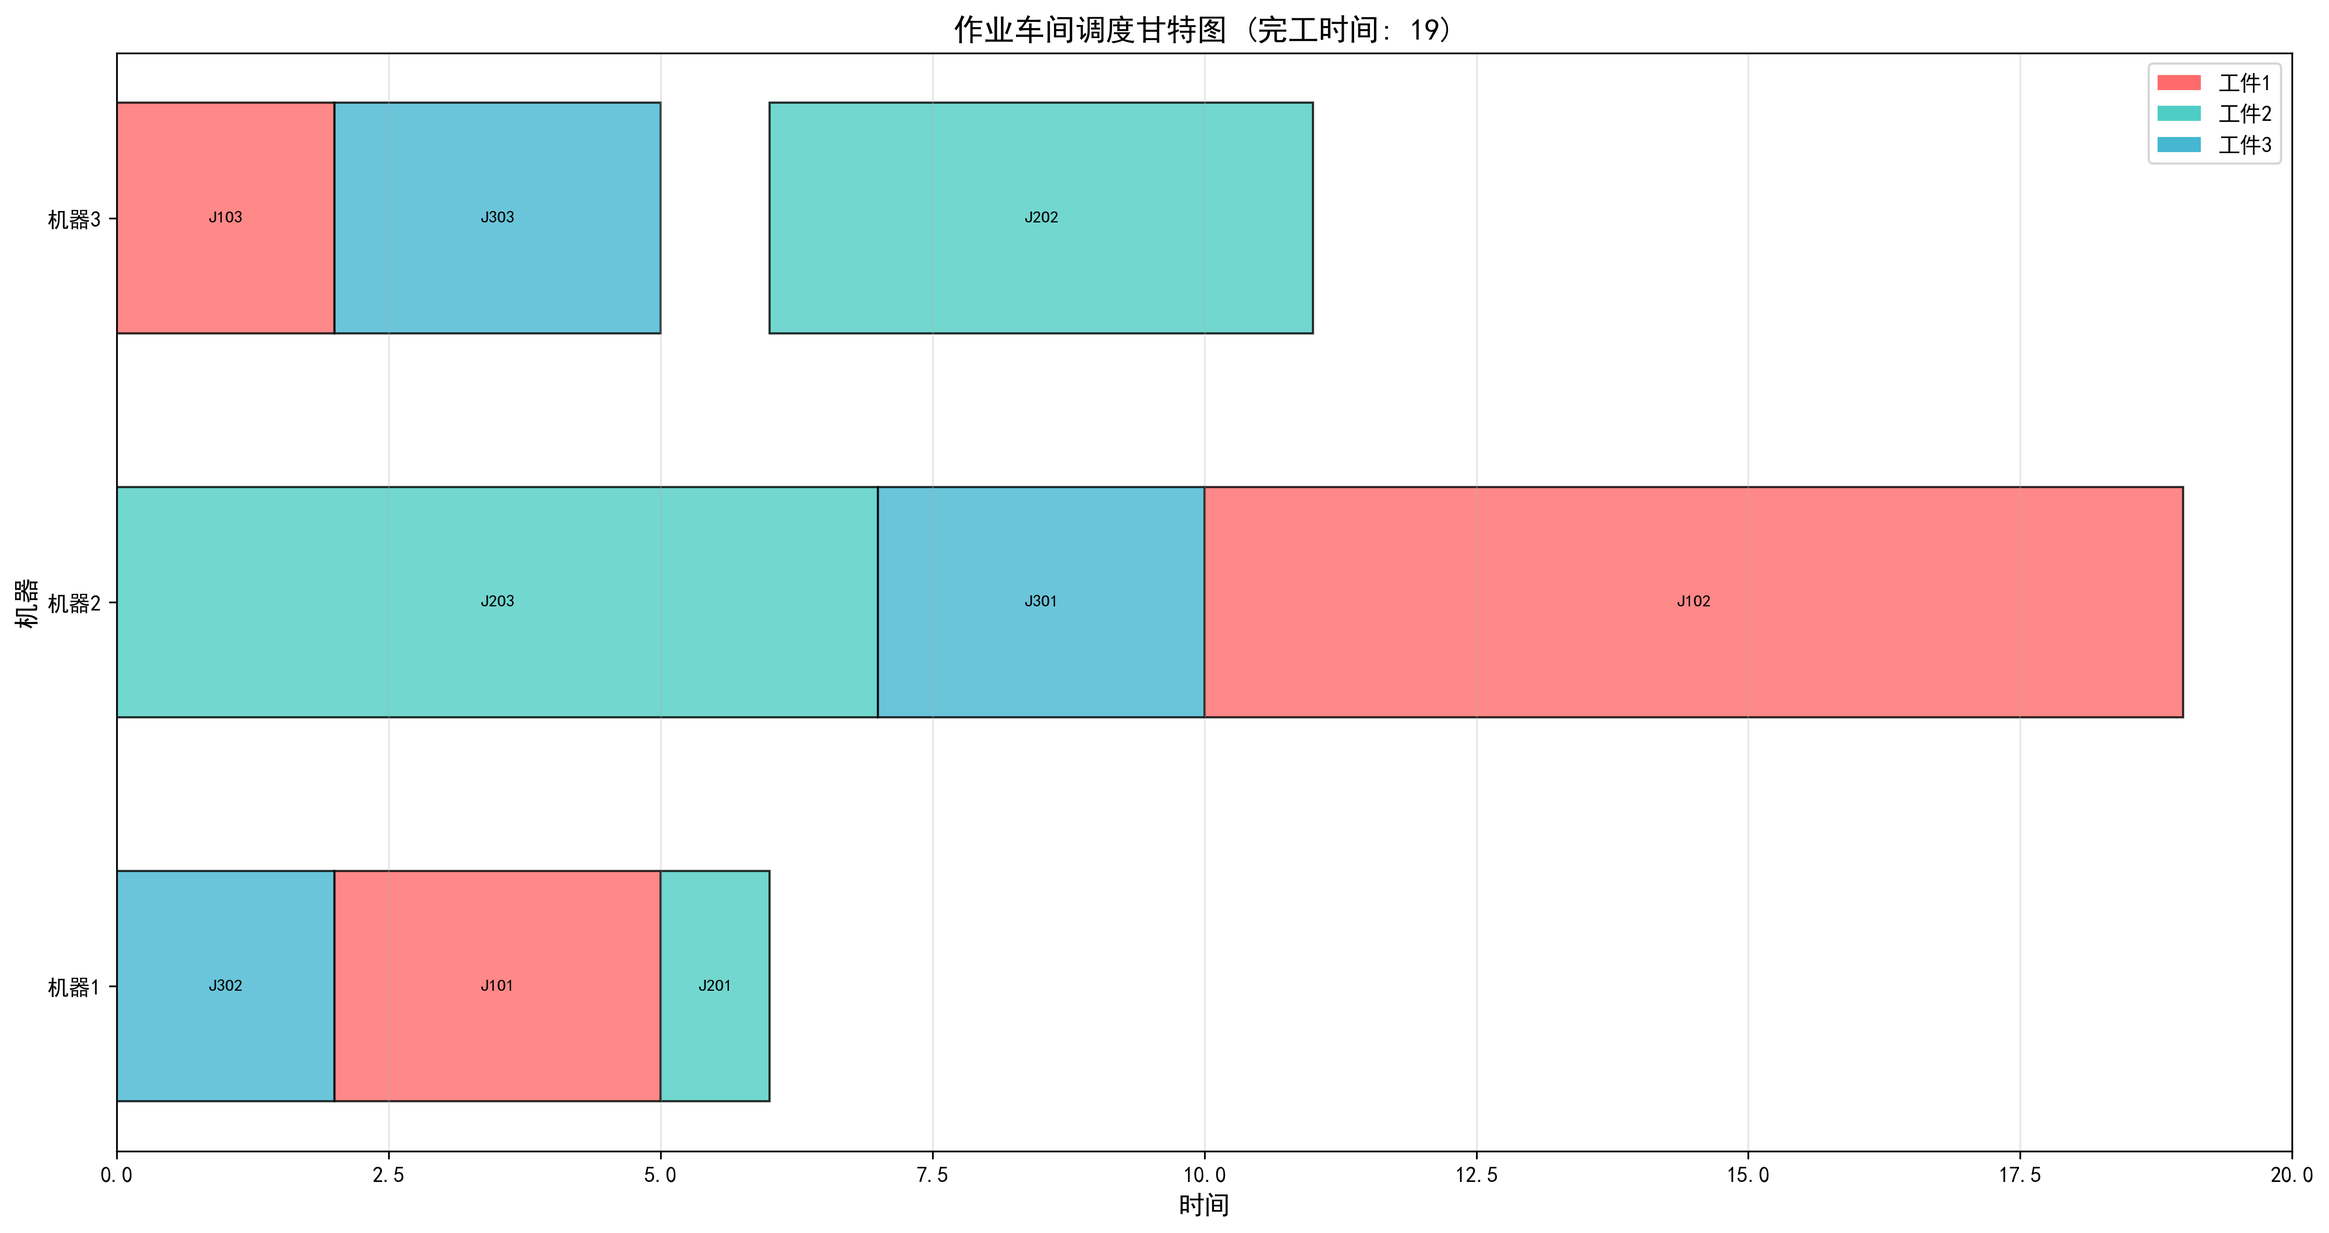
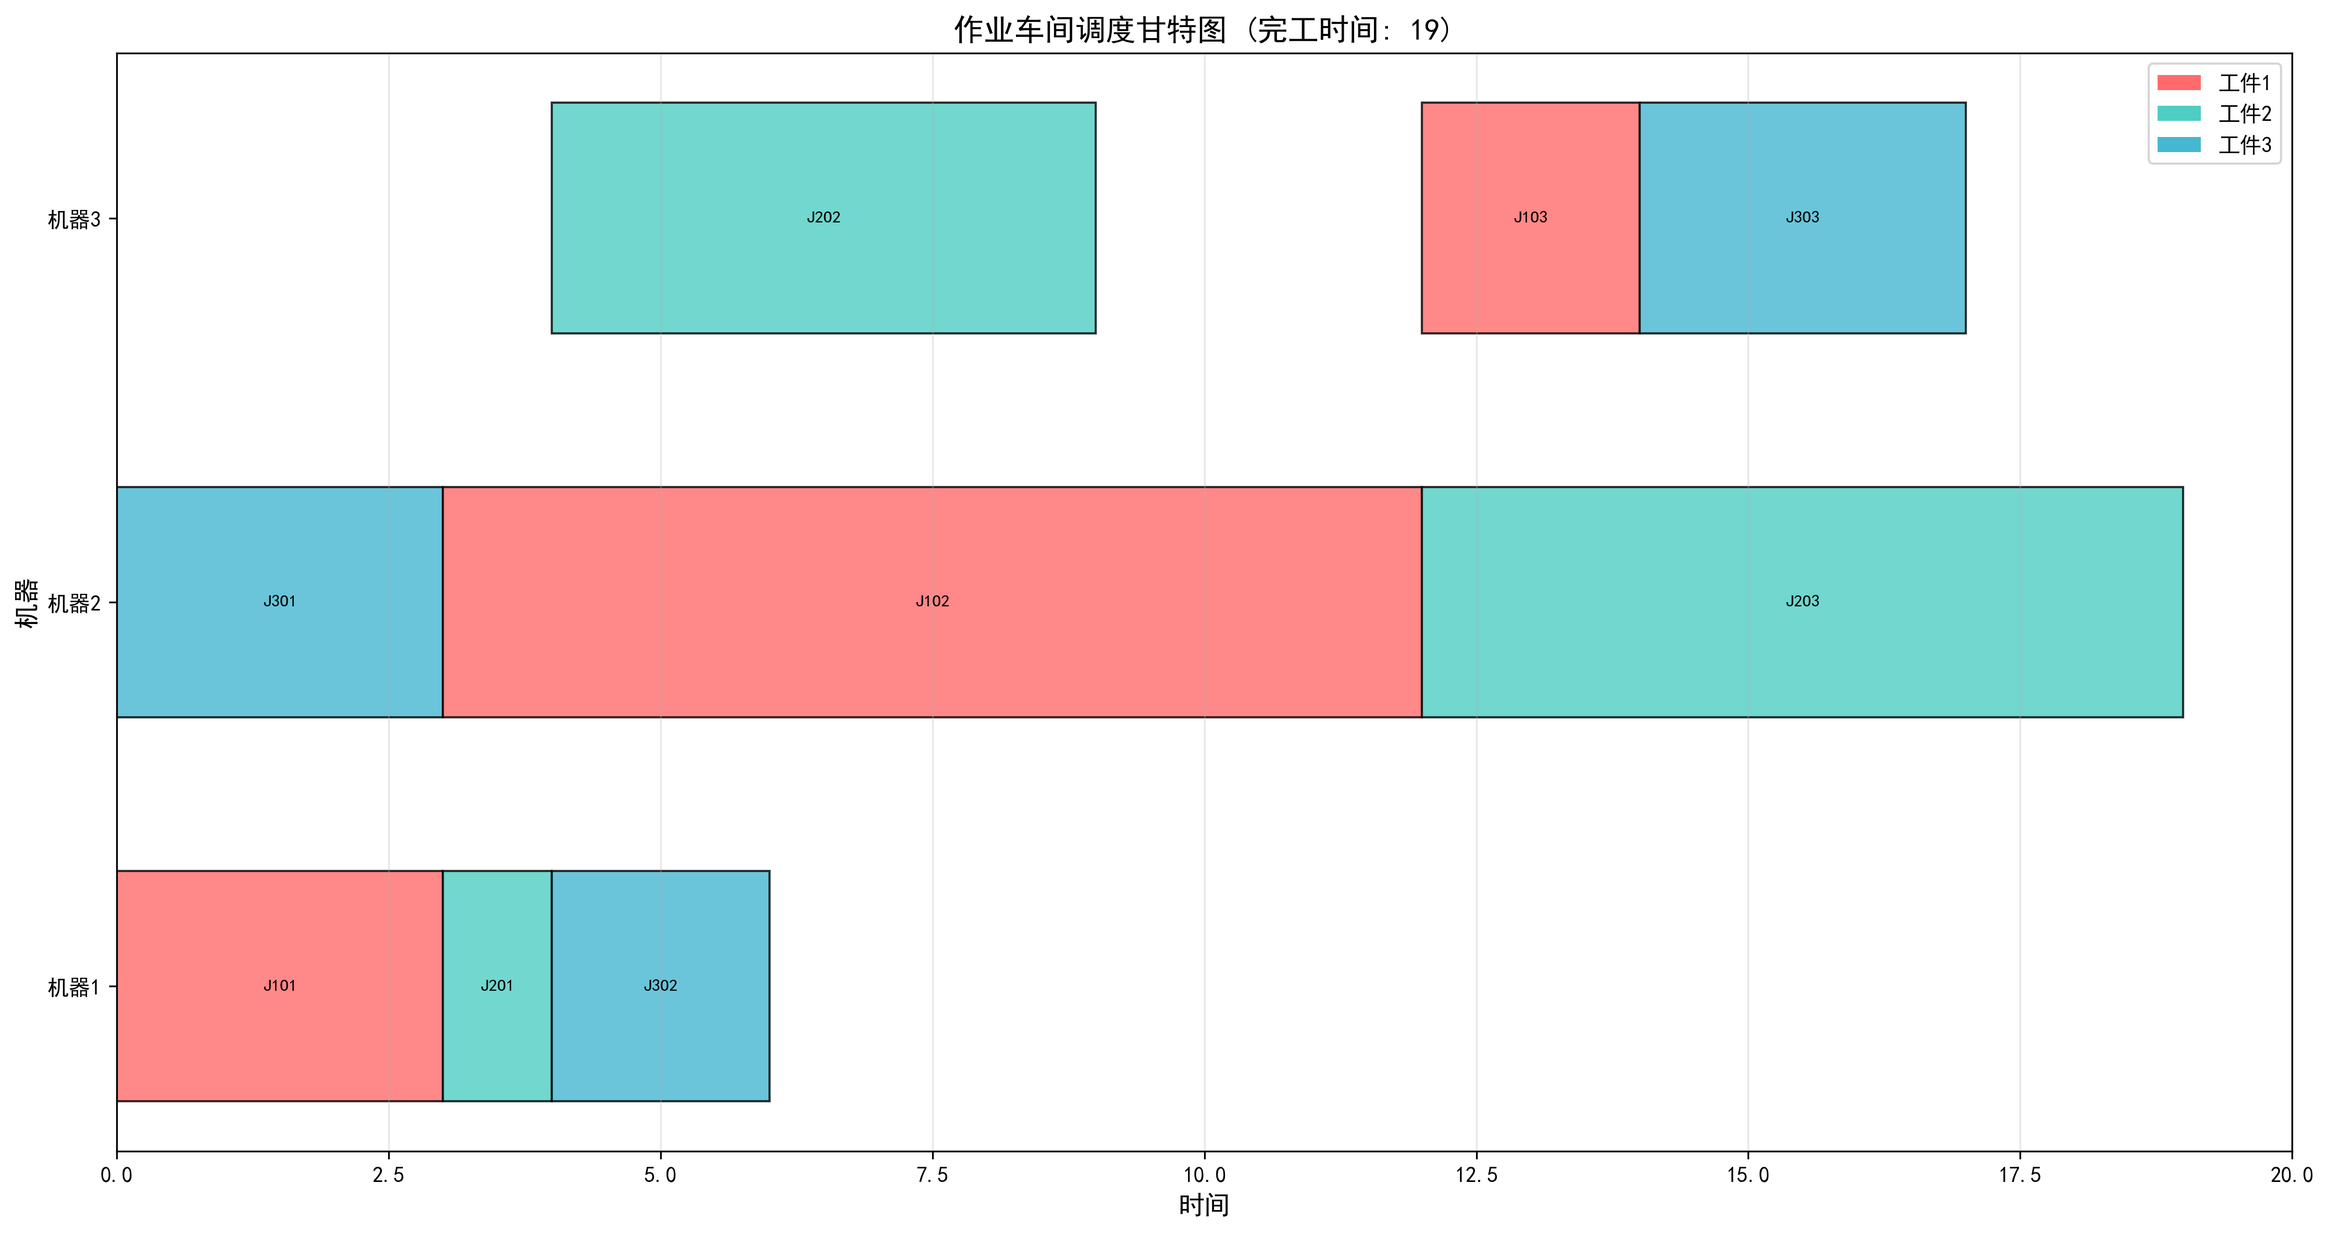
添加工序顺序约束检查： 在JobShopScheduler类中添加了validate_schedule_constraints()方法 确保每个工件的工序按照预定顺序执行（工序1 → 工序2 → 工序3） 违反约束的调度方案会被给予很大的惩罚值（999999） 修改遗传算法： 更新了种群初始化，确保生成的初始个体都满足工序顺序约束 修改了交叉操作，使用保持约束的交叉方法 更新了变异操作，确保变异后的个体仍然满足约束

diff --git a/job_shop_ga.py b/job_shop_ga.py
@@ -23,12 +23,114 @@ class JobShopPopulation:
         """
         self.size = size
         self.num_operations = num_operations
-        self.individuals = [JobShopIndividual(num_operations=num_operations) for _ in range(size)]
+        self.individuals = self._create_constraint_satisfying_population(size, num_operations)
         self.generation = 0
         self.best_individual = None
         self.fitness_history = []
         self.best_fitness_history = []
         self.average_fitness_history = []
+    
+    def _create_constraint_satisfying_population(self, size: int, num_operations: int) -> List[JobShopIndividual]:
+        """
+        创建满足工序顺序约束的初始种群
+        
+        Args:
+            size: 种群大小
+            num_operations: 工序总数
+            
+        Returns:
+            满足约束的个体列表
+        """
+        individuals = []
+        
+        for _ in range(size):
+            # 为每个工件创建工序序列
+            job1_ops = [0, 1, 2]  # 工件1的工序：0,1,2
+            job2_ops = [3, 4, 5]  # 工件2的工序：3,4,5  
+            job3_ops = [6, 7, 8]  # 工件3的工序：6,7,8
+            
+            # 随机打乱每个工件的工序顺序，但保持工件内工序顺序
+            random.shuffle(job1_ops)
+            random.shuffle(job2_ops)
+            random.shuffle(job3_ops)
+            
+            # 将所有工序合并成一个调度序列
+            all_operations = job1_ops + job2_ops + job3_ops
+            random.shuffle(all_operations)
+            
+            # 创建满足约束的调度序列
+            schedule = self._create_valid_schedule(all_operations)
+            
+            individuals.append(JobShopIndividual(schedule))
+        
+        return individuals
+    
+    def _create_valid_schedule(self, operations: List[int]) -> List[int]:
+        """
+        创建满足工序顺序约束的调度序列
+        
+        Args:
+            operations: 工序列表
+            
+        Returns:
+            满足约束的调度序列
+        """
+        # 工序到工件的映射
+        operation_to_job = {0: 1, 1: 1, 2: 1, 3: 2, 4: 2, 5: 2, 6: 3, 7: 3, 8: 3}
+        operation_to_seq = {0: 1, 1: 2, 2: 3, 3: 1, 4: 2, 5: 3, 6: 1, 7: 2, 8: 3}
+        
+        # 按工件分组工序
+        job_operations = {1: [], 2: [], 3: []}
+        for op in operations:
+            job_id = operation_to_job[op]
+            job_operations[job_id].append(op)
+        
+        # 对每个工件的工序按顺序排序
+        for job_id in [1, 2, 3]:
+            job_operations[job_id].sort(key=lambda x: operation_to_seq[x])
+        
+        # 创建满足约束的调度序列
+        valid_schedule = []
+        
+        # 随机选择下一个要调度的工序
+        remaining_ops = operations.copy()
+        
+        while remaining_ops:
+            # 找到可以调度的工序（其前序工序已完成）
+            available_ops = []
+            
+            for op in remaining_ops:
+                job_id = operation_to_job[op]
+                seq = operation_to_seq[op]
+                
+                # 检查前序工序是否已完成
+                can_schedule = True
+                for prev_seq in range(1, seq):
+                    prev_op = None
+                    for check_op in operations:
+                        if operation_to_job[check_op] == job_id and operation_to_seq[check_op] == prev_seq:
+                            prev_op = check_op
+                            break
+                    
+                    if prev_op is not None and prev_op not in [x for x in operations if x not in remaining_ops]:
+                        can_schedule = False
+                        break
+                
+                if can_schedule:
+                    available_ops.append(op)
+            
+            # 从可用工序中随机选择一个
+            if available_ops:
+                selected_op = random.choice(available_ops)
+                valid_schedule.append(selected_op)
+                remaining_ops.remove(selected_op)
+            else:
+                # 如果没有可用工序，随机选择一个（这种情况理论上不应该发生）
+                selected_op = random.choice(remaining_ops)
+                valid_schedule.append(selected_op)
+                remaining_ops.remove(selected_op)
+        
+        return valid_schedule
     
     def evaluate_population(self, scheduler: JobShopScheduler):
         """评估整个种群的适应度"""
@@ -107,52 +209,173 @@ class JobShopGeneticAlgorithm:
         return random.choices(population.individuals, weights=probabilities, k=population.size)
     
     def crossover(self, parent1: JobShopIndividual, parent2: JobShopIndividual) -> Tuple[JobShopIndividual, JobShopIndividual]:
-        """交叉操作 - 使用顺序交叉(OX)"""
+        """交叉操作 - 使用保持工序顺序约束的交叉"""
         if random.random() > self.crossover_rate:
             return copy.deepcopy(parent1), copy.deepcopy(parent2)
         
-        # 顺序交叉(Order Crossover)
-        size = len(parent1.chromosome)
-        start, end = sorted(random.sample(range(size), 2))
-        
-        # 创建子代1
-        child1_chromosome = [-1] * size
-        child1_chromosome[start:end] = parent1.chromosome[start:end]
-        
-        # 从parent2中填充剩余位置
-        remaining = [x for x in parent2.chromosome if x not in child1_chromosome[start:end]]
-        remaining_idx = 0
-        
-        for i in range(size):
-            if child1_chromosome[i] == -1:
-                child1_chromosome[i] = remaining[remaining_idx]
-                remaining_idx += 1
-        
-        # 创建子代2
-        child2_chromosome = [-1] * size
-        child2_chromosome[start:end] = parent2.chromosome[start:end]
-        
-        # 从parent1中填充剩余位置
-        remaining = [x for x in parent1.chromosome if x not in child2_chromosome[start:end]]
-        remaining_idx = 0
-        
-        for i in range(size):
-            if child2_chromosome[i] == -1:
-                child2_chromosome[i] = remaining[remaining_idx]
-                remaining_idx += 1
+        # 创建满足约束的子代
+        child1_chromosome = self._create_constraint_satisfying_offspring(parent1.chromosome, parent2.chromosome)
+        child2_chromosome = self._create_constraint_satisfying_offspring(parent2.chromosome, parent1.chromosome)
         
         return JobShopIndividual(child1_chromosome), JobShopIndividual(child2_chromosome)
     
+    def _create_constraint_satisfying_offspring(self, parent1: List[int], parent2: List[int]) -> List[int]:
+        """
+        创建满足工序顺序约束的后代
+        
+        Args:
+            parent1: 父代1的染色体
+            parent2: 父代2的染色体
+            
+        Returns:
+            满足约束的后代染色体
+        """
+        # 工序到工件的映射
+        operation_to_job = {0: 1, 1: 1, 2: 1, 3: 2, 4: 2, 5: 2, 6: 3, 7: 3, 8: 3}
+        operation_to_seq = {0: 1, 1: 2, 2: 3, 3: 1, 4: 2, 5: 3, 6: 1, 7: 2, 8: 3}
+        
+        # 随机选择从哪个父代继承每个工件的工序顺序
+        job_inheritance = {}
+        for job_id in [1, 2, 3]:
+            job_inheritance[job_id] = random.choice([parent1, parent2])
+        
+        # 按工件分组工序
+        job_operations = {1: [], 2: [], 3: []}
+        for op in range(9):
+            job_id = operation_to_job[op]
+            job_operations[job_id].append(op)
+        
+        # 从选定的父代中获取每个工件的工序顺序
+        offspring_operations = []
+        
+        for job_id in [1, 2, 3]:
+            parent = job_inheritance[job_id]
+            
+            # 从父代中提取该工件的工序顺序
+            job_ops_in_parent = []
+            for op in parent:
+                if operation_to_job[op] == job_id:
+                    job_ops_in_parent.append(op)
+            
+            # 按工序顺序排序
+            job_ops_in_parent.sort(key=lambda x: operation_to_seq[x])
+            offspring_operations.extend(job_ops_in_parent)
+        
+        # 创建满足约束的调度序列
+        return self._create_valid_schedule_from_operations(offspring_operations)
+    
+    def _create_valid_schedule_from_operations(self, operations: List[int]) -> List[int]:
+        """
+        从工序列表创建满足约束的调度序列
+        
+        Args:
+            operations: 工序列表
+            
+        Returns:
+            满足约束的调度序列
+        """
+        # 工序到工件的映射
+        operation_to_job = {0: 1, 1: 1, 2: 1, 3: 2, 4: 2, 5: 2, 6: 3, 7: 3, 8: 3}
+        operation_to_seq = {0: 1, 1: 2, 2: 3, 3: 1, 4: 2, 5: 3, 6: 1, 7: 2, 8: 3}
+        
+        # 创建满足约束的调度序列
+        valid_schedule = []
+        remaining_ops = operations.copy()
+        
+        while remaining_ops:
+            # 找到可以调度的工序（其前序工序已完成）
+            available_ops = []
+            
+            for op in remaining_ops:
+                job_id = operation_to_job[op]
+                seq = operation_to_seq[op]
+                
+                # 检查前序工序是否已完成
+                can_schedule = True
+                for prev_seq in range(1, seq):
+                    prev_op = None
+                    for check_op in operations:
+                        if operation_to_job[check_op] == job_id and operation_to_seq[check_op] == prev_seq:
+                            prev_op = check_op
+                            break
+                    
+                    if prev_op is not None and prev_op not in [x for x in operations if x not in remaining_ops]:
+                        can_schedule = False
+                        break
+                
+                if can_schedule:
+                    available_ops.append(op)
+            
+            # 从可用工序中随机选择一个
+            if available_ops:
+                selected_op = random.choice(available_ops)
+                valid_schedule.append(selected_op)
+                remaining_ops.remove(selected_op)
+            else:
+                # 如果没有可用工序，随机选择一个
+                selected_op = random.choice(remaining_ops)
+                valid_schedule.append(selected_op)
+                remaining_ops.remove(selected_op)
+        
+        return valid_schedule
+    
     def mutation(self, individual: JobShopIndividual) -> JobShopIndividual:
-        """变异操作 - 交换变异"""
-        mutated_chromosome = individual.chromosome.copy()
+        """变异操作 - 保持工序顺序约束的变异"""
+        if random.random() > self.mutation_rate:
+            return copy.deepcopy(individual)
         
-        if random.random() < self.mutation_rate:
-            # 随机选择两个位置进行交换
-            pos1, pos2 = random.sample(range(len(mutated_chromosome)), 2)
-            mutated_chromosome[pos1], mutated_chromosome[pos2] = mutated_chromosome[pos2], mutated_chromosome[pos1]
-        
+        # 创建满足约束的变异个体
+        mutated_chromosome = self._create_constraint_satisfying_mutation(individual.chromosome)
         return JobShopIndividual(mutated_chromosome)
+    
+    def _create_constraint_satisfying_mutation(self, chromosome: List[int]) -> List[int]:
+        """
+        创建满足工序顺序约束的变异个体
+        
+        Args:
+            chromosome: 原始染色体
+            
+        Returns:
+            满足约束的变异染色体
+        """
+        # 工序到工件的映射
+        operation_to_job = {0: 1, 1: 1, 2: 1, 3: 2, 4: 2, 5: 2, 6: 3, 7: 3, 8: 3}
+        operation_to_seq = {0: 1, 1: 2, 2: 3, 3: 1, 4: 2, 5: 3, 6: 1, 7: 2, 8: 3}
+        
+        # 按工件分组工序
+        job_operations = {1: [], 2: [], 3: []}
+        for op in chromosome:
+            job_id = operation_to_job[op]
+            job_operations[job_id].append(op)
+        
+        # 对每个工件的工序按顺序排序
+        for job_id in [1, 2, 3]:
+            job_operations[job_id].sort(key=lambda x: operation_to_seq[x])
+        
+        # 随机选择变异类型
+        mutation_type = random.choice(['swap_jobs', 'reorder_within_job', 'random_reschedule'])
+        
+        if mutation_type == 'swap_jobs':
+            # 交换两个工件的调度顺序
+            job1, job2 = random.sample([1, 2, 3], 2)
+            job_operations[job1], job_operations[job2] = job_operations[job2], job_operations[job1]
+        
+        elif mutation_type == 'reorder_within_job':
+            # 在工件内部重新排序（保持工序顺序）
+            job_id = random.choice([1, 2, 3])
+            # 工件内部工序必须按顺序执行，所以这种变异实际上不改变顺序
+            pass
+        
+        elif mutation_type == 'random_reschedule':
+            # 随机重新调度，但保持工序顺序约束
+            all_operations = job_operations[1] + job_operations[2] + job_operations[3]
+            return self._create_valid_schedule_from_operations(all_operations)
+        
+        # 重新组合所有工序
+        all_operations = job_operations[1] + job_operations[2] + job_operations[3]
+        
+        # 创建满足约束的调度序列
+        return self._create_valid_schedule_from_operations(all_operations)
     
     def evolve_generation(self):
         """进化一代"""

diff --git a/job_shop_scheduling.py b/job_shop_scheduling.py
@@ -87,6 +87,33 @@ class JobShopScheduler:
         for job in self.jobs:
             self.operations.extend(job.operations)
     
+    def validate_schedule_constraints(self, schedule: List[int]) -> bool:
+        """
+        验证调度方案是否满足工序顺序约束
+        
+        Args:
+            schedule: 调度序列
+            
+        Returns:
+            是否满足约束
+        """
+        # 记录每个工件的工序执行顺序
+        job_operation_order = {1: [], 2: [], 3: []}
+        
+        for operation_id in schedule:
+            operation = self.operations[operation_id]
+            job_id = operation.job_id
+            operation_seq = operation.operation_id
+            job_operation_order[job_id].append(operation_seq)
+        
+        # 检查每个工件的工序是否按顺序执行
+        for job_id in [1, 2, 3]:
+            operations = job_operation_order[job_id]
+            if operations != sorted(operations):
+                return False
+        
+        return True
+    
     def calculate_makespan(self, schedule: List[int]) -> int:
         """
         计算给定调度方案的最大完工时间
@@ -97,6 +124,11 @@ class JobShopScheduler:
         Returns:
             最大完工时间（makespan）
         """
+        # 首先验证工序顺序约束
+        if not self.validate_schedule_constraints(schedule):
+            # 如果违反约束，返回一个很大的惩罚值
+            return 999999
+        
         # 重置所有时间和状态
         for job in self.jobs:
             job.completion_time = 0

diff --git a/main2.py b/main2.py
@@ -32,6 +32,14 @@ def run_experiment():
     print("| j2   | 1         | 5         | 7         | m1        | m3        | m2        |")
     print("| j3   | 3         | 2         | 3         | m2        | m1        | m3        |")
     print()
+    print("重要约束:")
+    print("✓ 每个工件的工序必须按照预定的顺序执行")
+    print("  - 工件1: 工序1 → 工序2 → 工序3")
+    print("  - 工件2: 工序1 → 工序2 → 工序3") 
+    print("  - 工件3: 工序1 → 工序2 → 工序3")
+    print("✓ 每台机器同时只能加工一个工序")
+    print("✓ 目标：最小化最大完工时间(makespan)")
+    print()
     
     # 算法参数配置
     config = {
